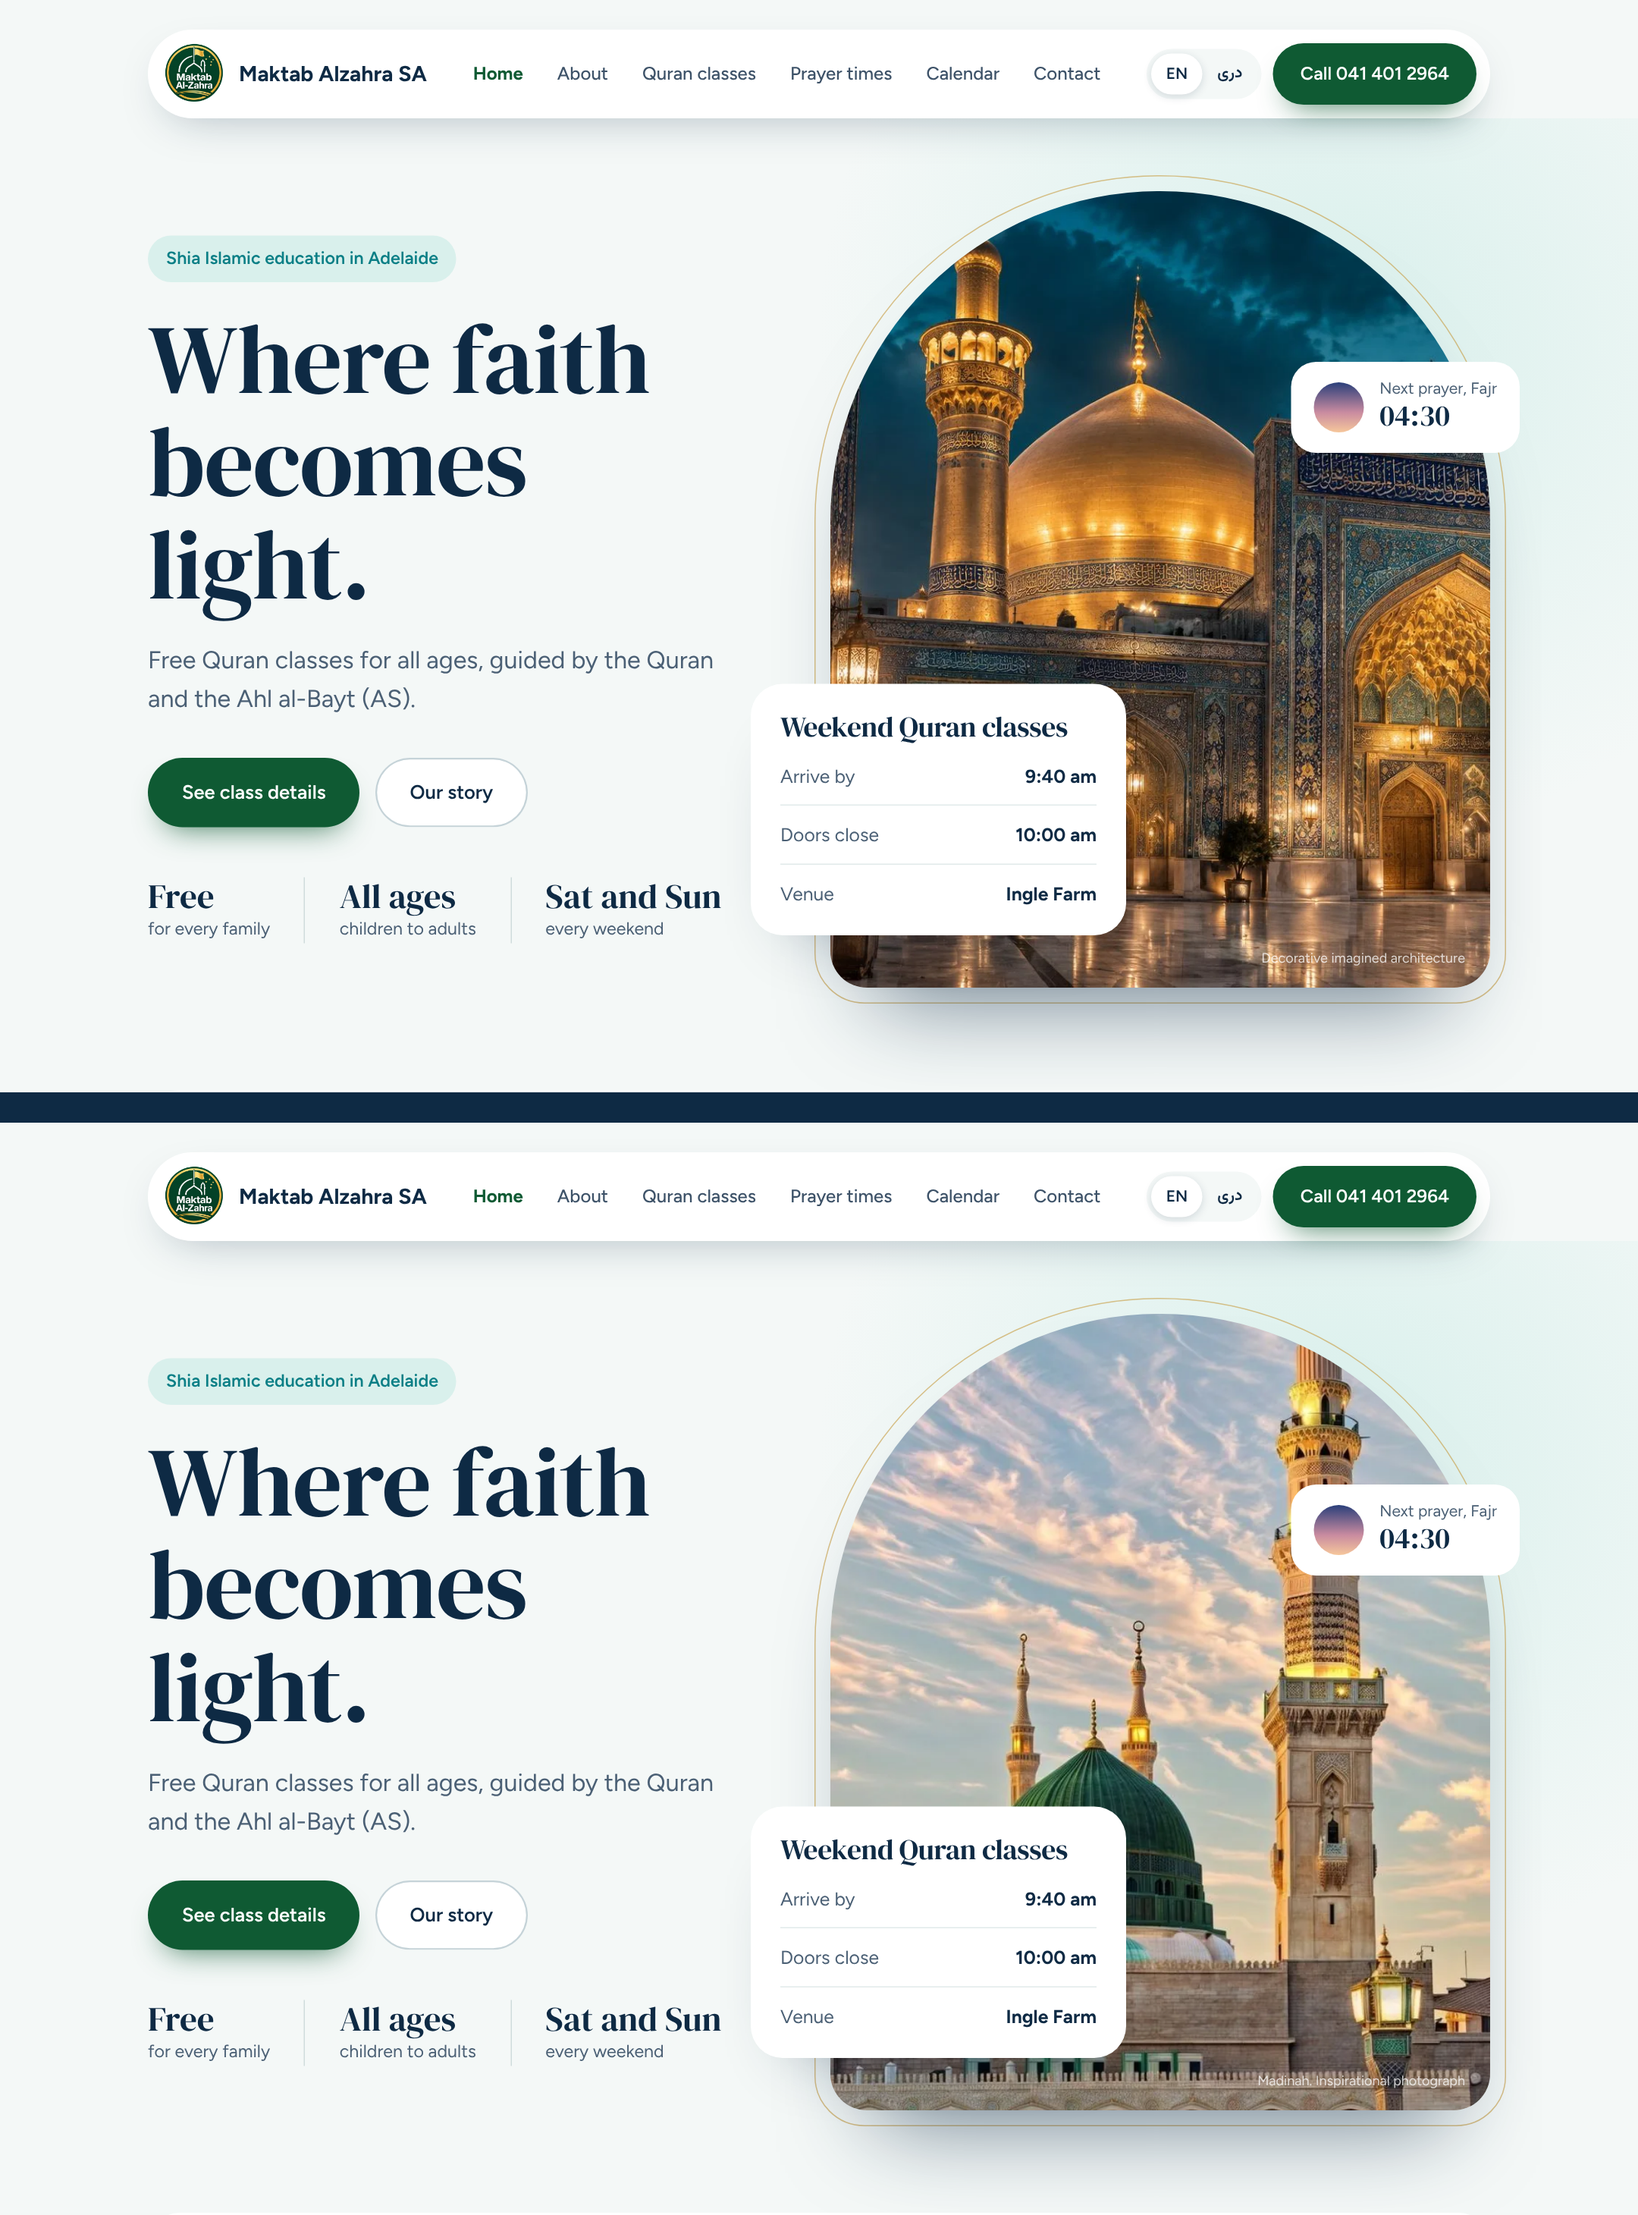
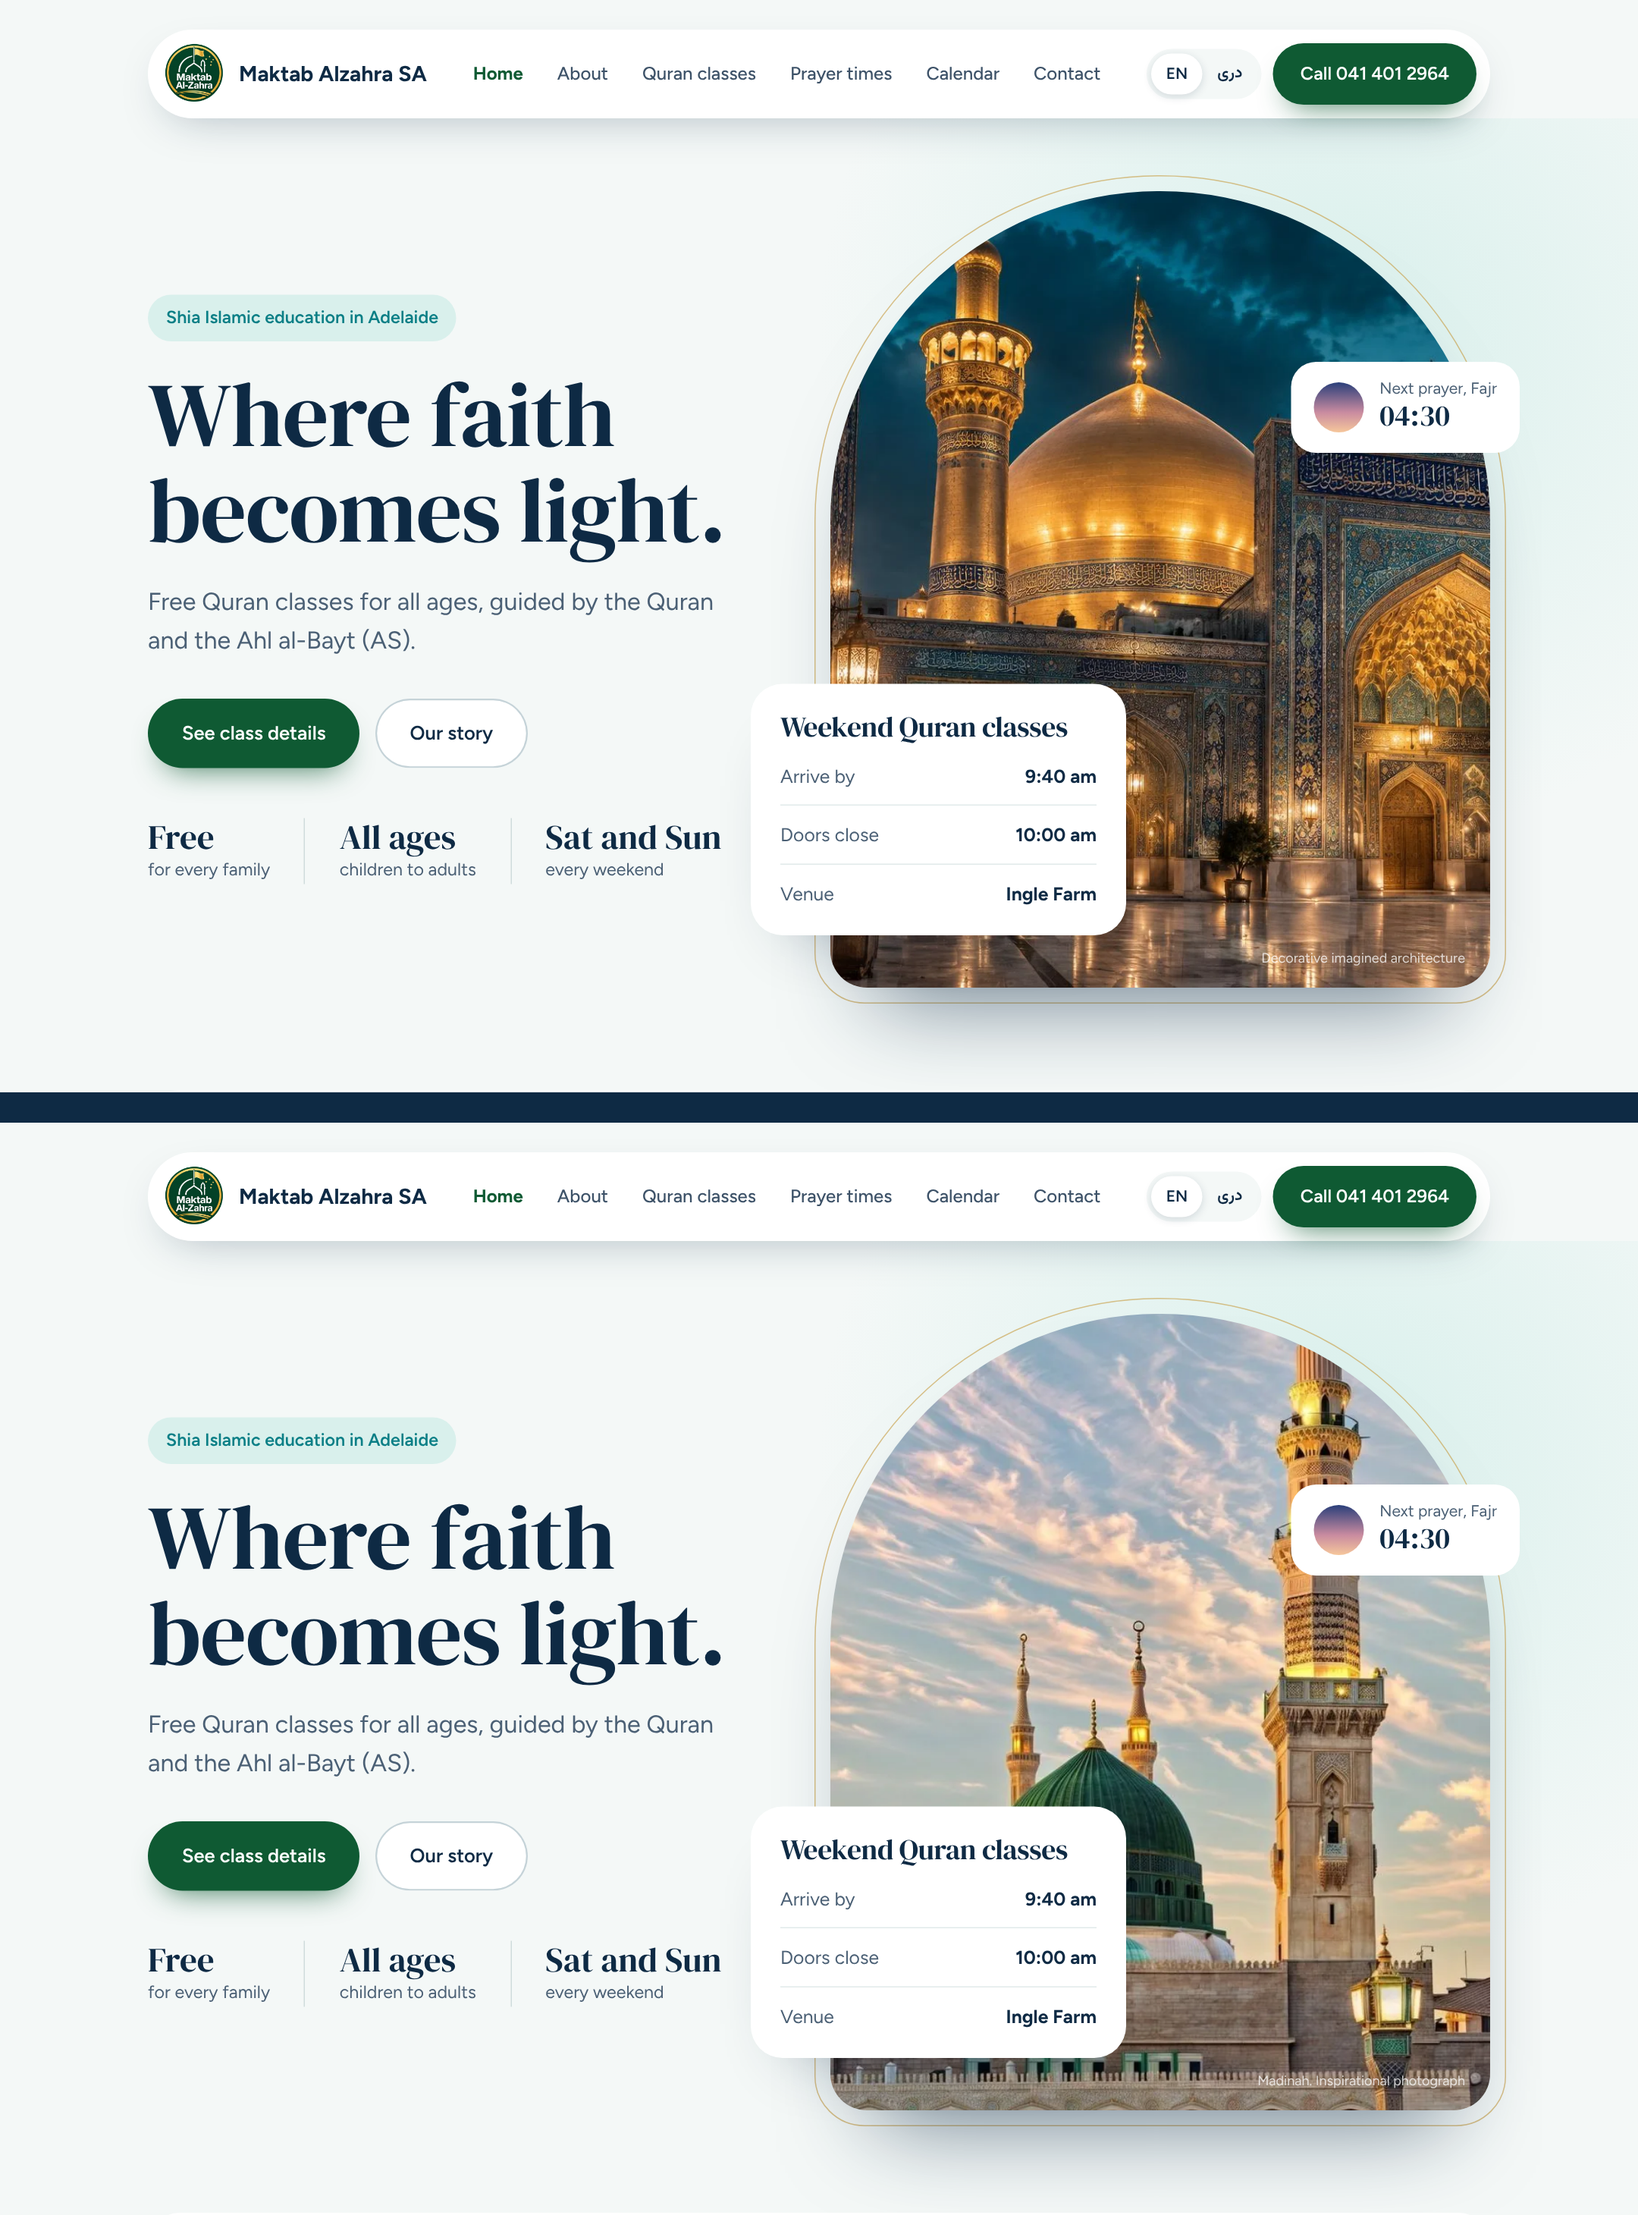
Set the light design's headline on two lines
Claude-Session: https://claude.ai/code/session_01KXSmvWSL6tHqFcFYyZBhCH

diff --git a/maktab-alzahra-design/home-light.html b/maktab-alzahra-design/home-light.html
@@ -47,7 +47,7 @@ nav .btn{padding:14px 24px;font-size:16px}
 .hero{position:relative;padding:64px 0 90px;overflow:hidden}
 .hero:before{content:"";position:absolute;right:-180px;top:-260px;width:900px;height:900px;border-radius:50%;background:radial-gradient(closest-side,#d9f0ec,rgba(217,240,236,0))}
 .hero-g{position:relative;display:grid;grid-template-columns:1fr 580px;gap:70px;align-items:center}
-h1{font-size:86px;margin:22px 0 22px}
+h1{font-size:80px;margin:22px 0 22px;white-space:nowrap}
 .hero p.lead{font-size:21.5px}
 .cta{display:flex;gap:14px;margin-top:34px}
 .trust{display:flex;gap:30px;margin-top:44px;font-size:15.5px;color:var(--muted)}
@@ -207,7 +207,7 @@ footer{padding:70px 0 34px}
   .burger{display:grid;place-items:center;width:44px;height:44px;border-radius:50%;background:var(--green)}
   .hero{padding:36px 0 56px}
   .hero-g,.cls,.two,.about,.days,.contact{grid-template-columns:1fr;gap:34px}
-  h1{font-size:56px;margin:16px 0 14px}
+  h1{font-size:54px;margin:16px 0 14px;white-space:normal}
   .hero p.lead{font-size:18px}
   .cta{flex-direction:column}
   .trust{gap:16px;margin-top:28px;font-size:14px}.trust b{font-size:23px}.trust div+div{padding-left:16px}
@@ -269,7 +269,7 @@ footer{padding:70px 0 34px}
 <header class="hero"><div class="wrap"><div class="hero-g">
   <div>
     <span class="pill">Shia Islamic education in Adelaide</span>
-    <h1>Where faith becomes light.</h1>
+    <h1>Where faith<br>becomes light.</h1>
     <p class="lead">Free Quran classes for all ages, guided by the Quran and the Ahl al-Bayt (AS).</p>
     <div class="cta"><a class="btn b1">See class details</a><a class="btn b2">Our story</a></div>
     <div class="trust"><div><b>Free</b>for every family</div><div><b>All ages</b>children to adults</div><div><b>Sat and Sun</b>every weekend</div></div>
